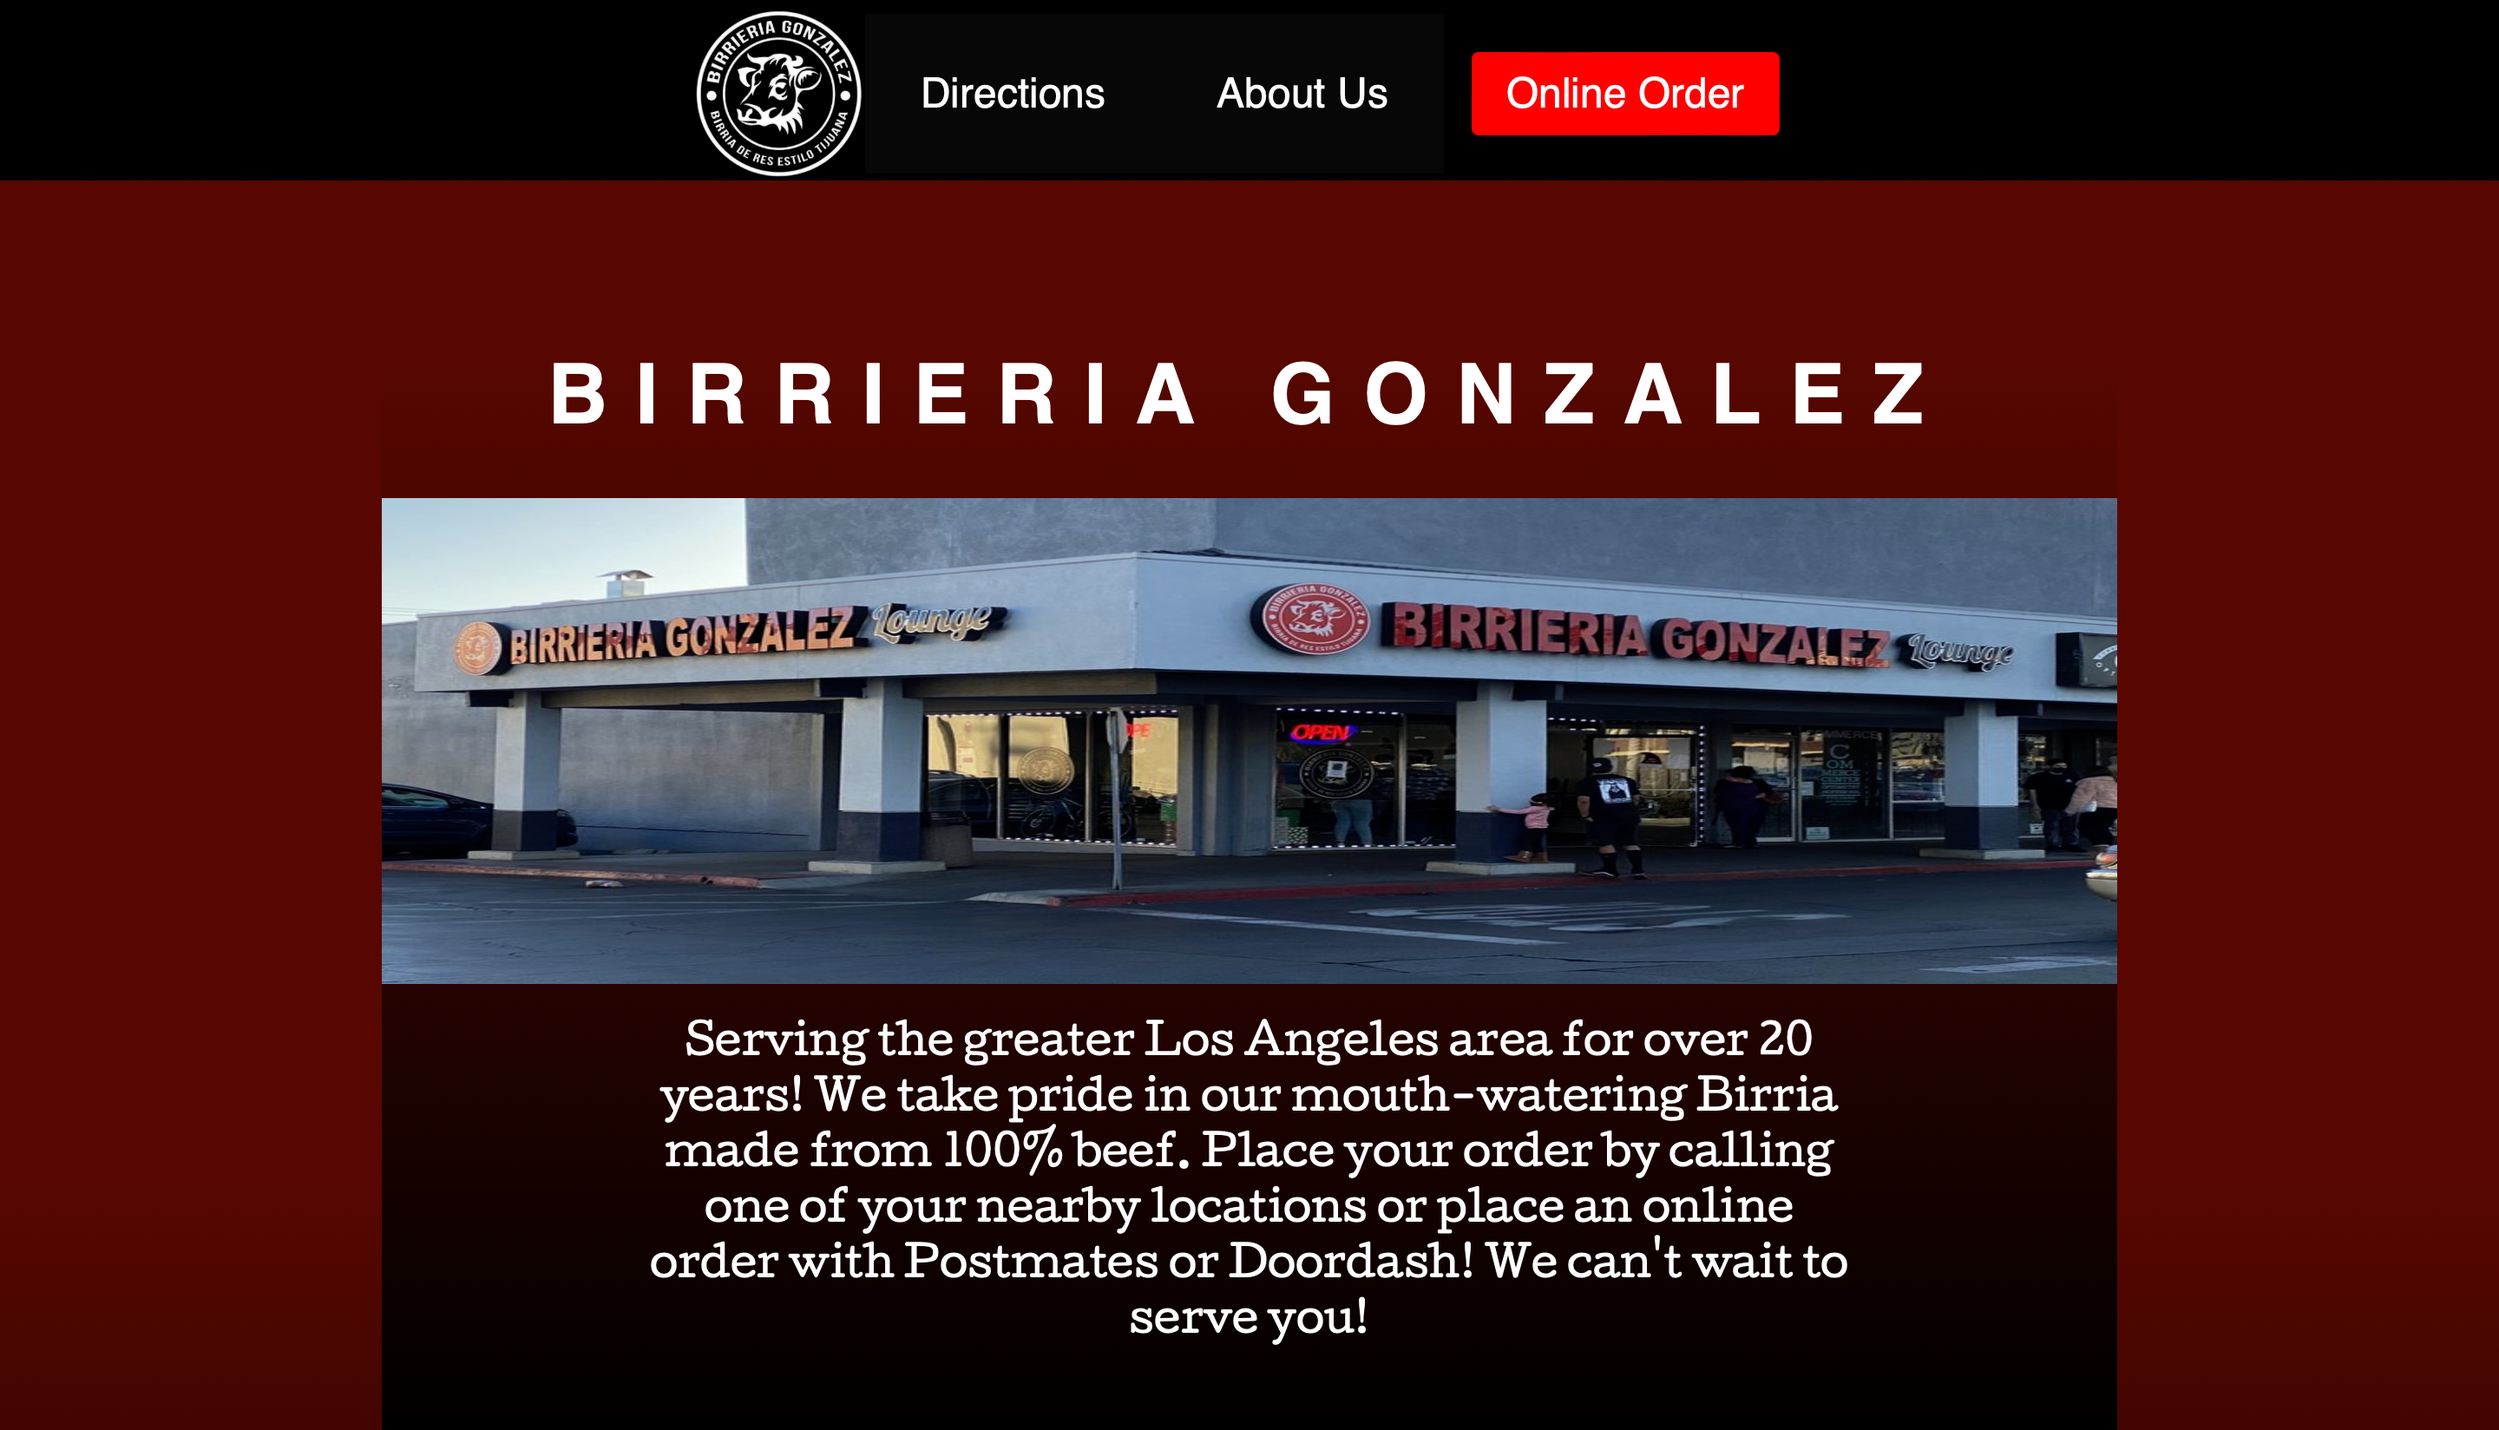
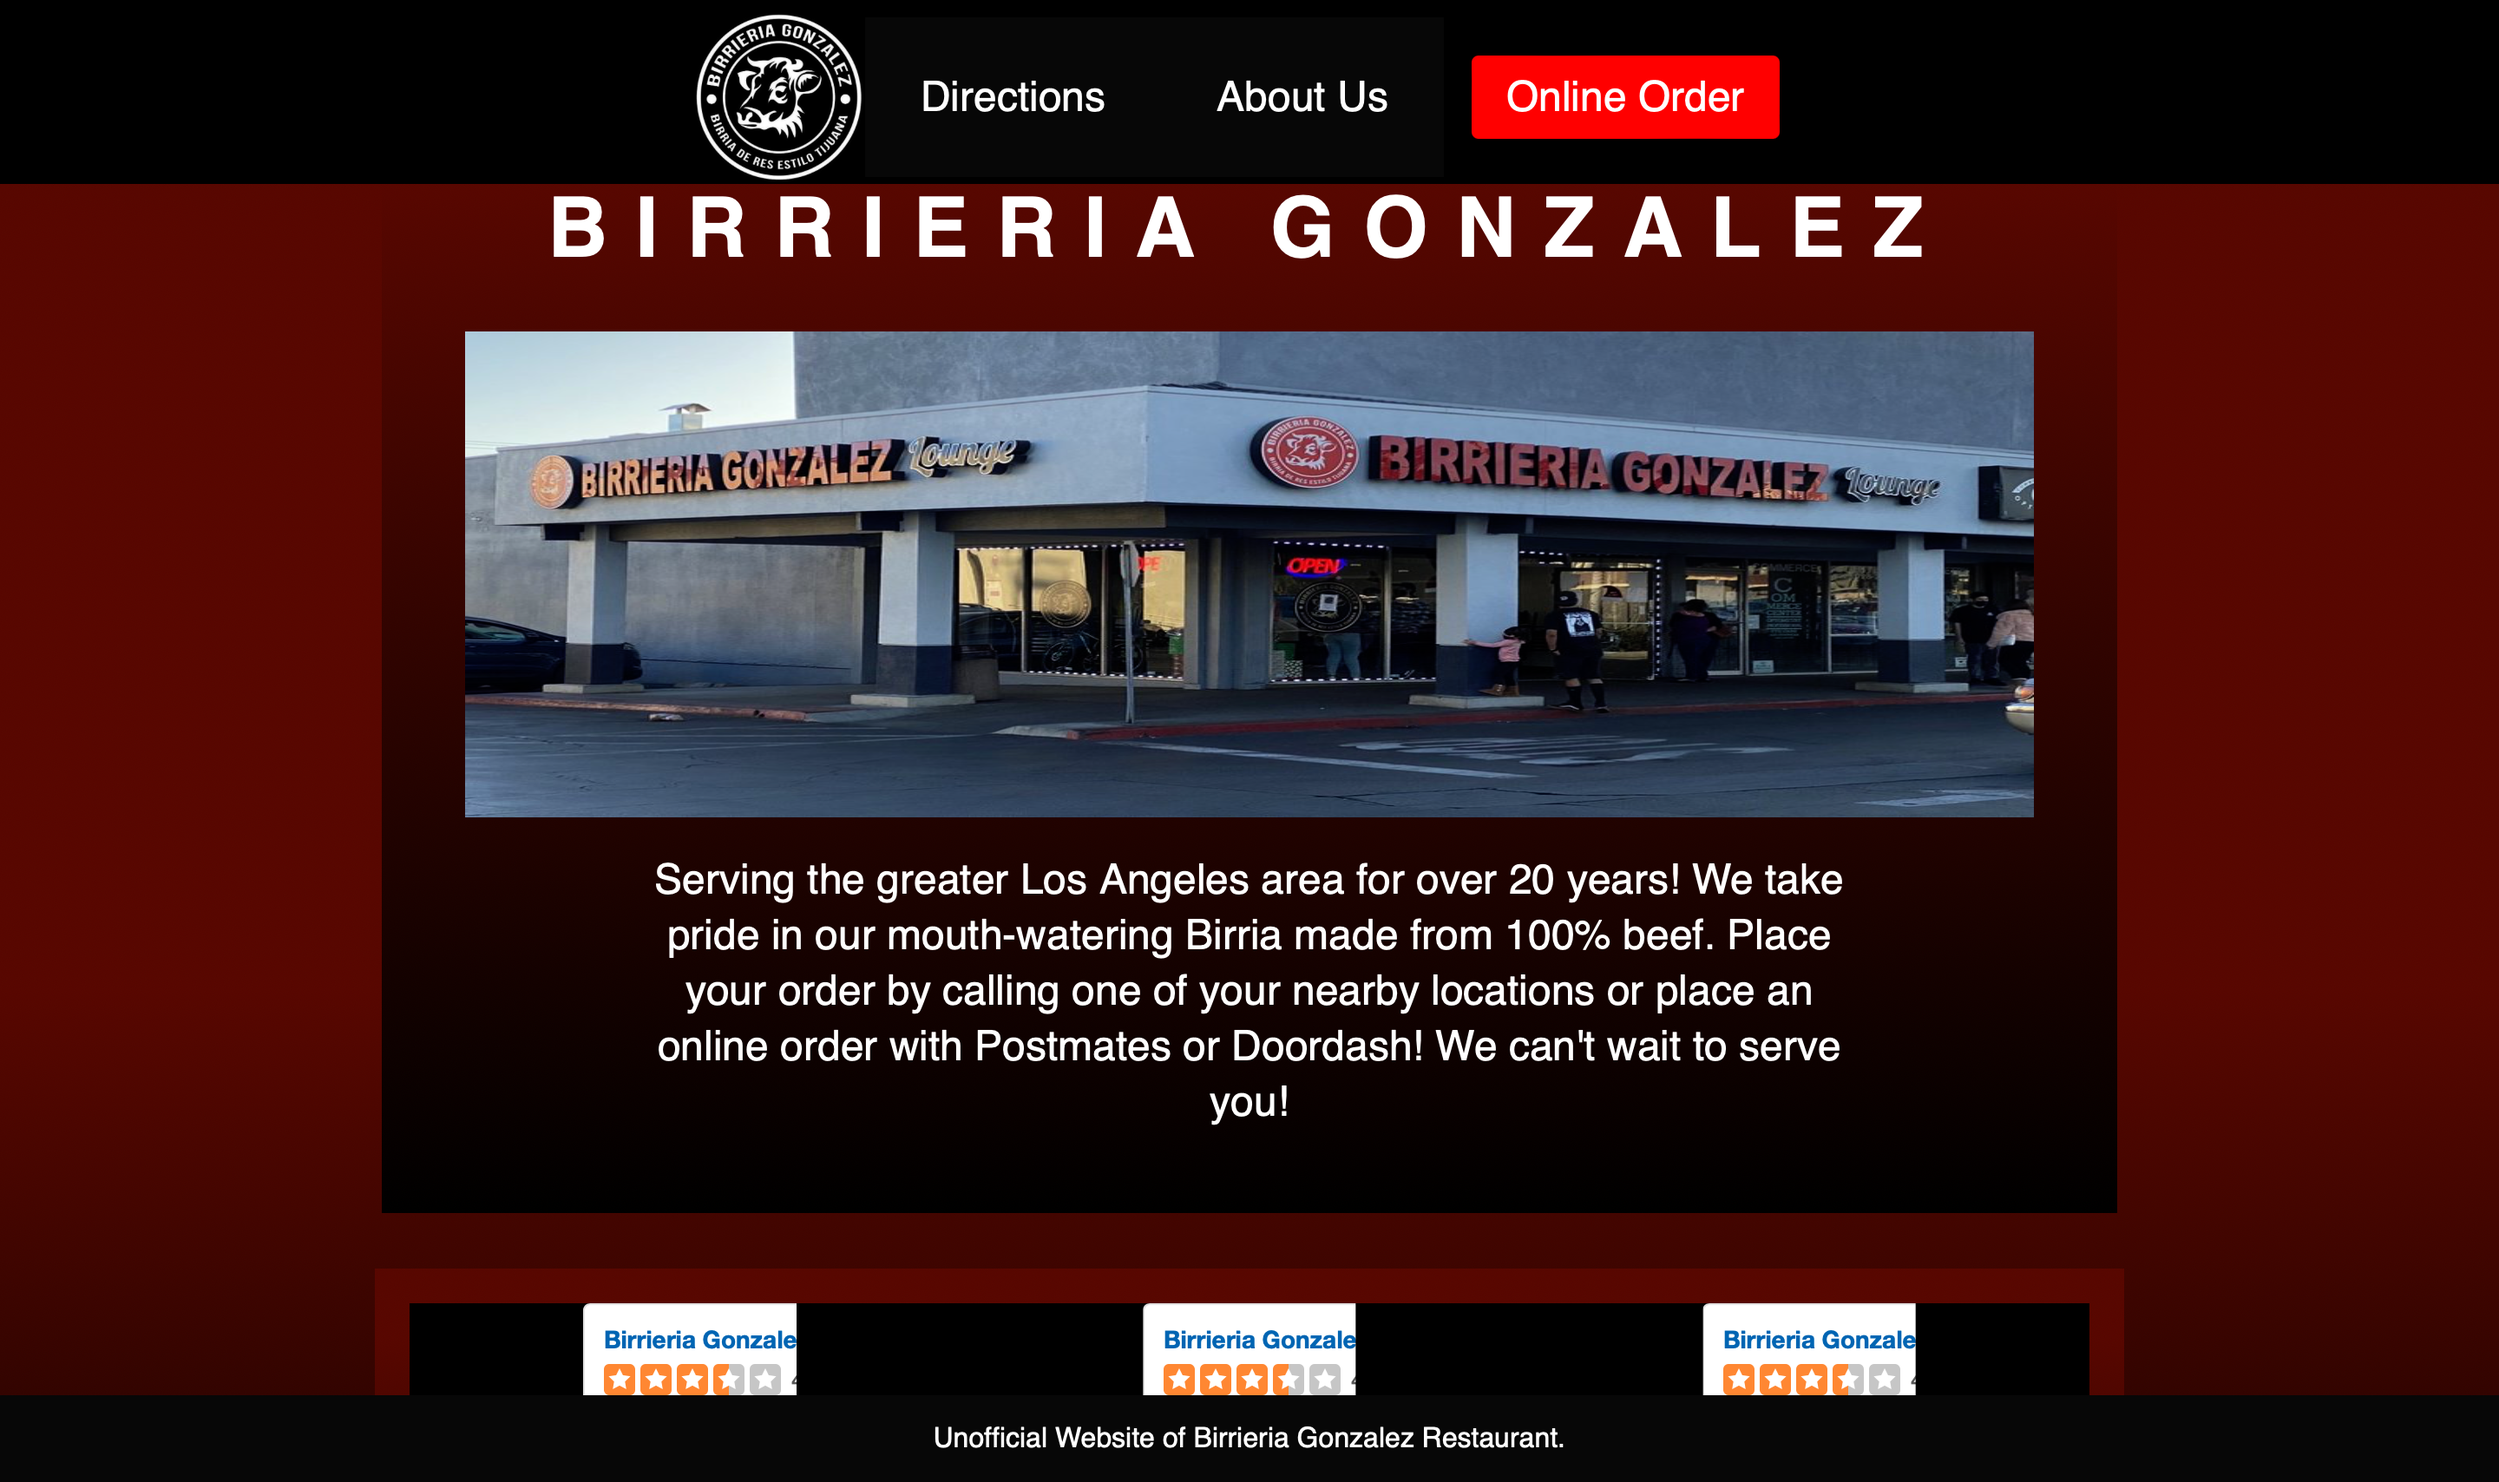
made footer sticky as well. Modified attributes for image container. Still cant figure out the yelp review issue. Updated README

diff --git a/styles.css b/styles.css
@@ -220,11 +220,14 @@
 
 .mainFooter {
   background: #131313;
-  height: 100px;
+  height: 50px;
   font-size: 1rem;
   color: white;
   text-align: center;
-  padding-top: 2rem;
+  padding-top: 1rem;
+  position: -webkit-sticky;
+  position: sticky; /*Ensures that navbar stays at the top of the page when scrolling*/
+  bottom: 0;
 }
 
 /*Google Maps*/
